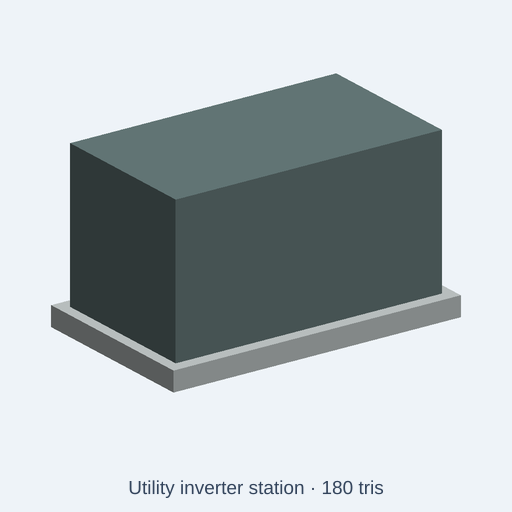
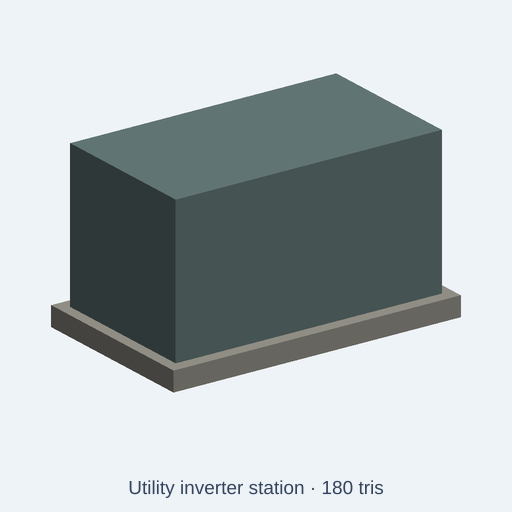
fix(catalog): render the inverter station cable plinth as concrete
The 1406 x 855 x 95 mm cable plinth under
solar-energy/utility-inverter-station used the stainlessSteel control,
so the station foundation rendered as a pale stainless slab. A cable
plinth for a containerised inverter station is a precast concrete
foundation.

- New concrete control (#99968d, "Concrete cable plinth"), the kit's
  existing concrete shade. Routed only to station-cable-plinth. Both
  presets set it (#8b8982, #77766f), as on pad-mount-transformer.
- The thin skid base (station-plinth) stays steel; body stays
  powder-coated steel.
- Geometry, part names and triangles (180 / 1800) are unchanged.
- New GLB colour test fails on the old source and passes on the fix.
- Catalog tests: 124/124 files, 194/194 tests pass. ESLint clean.
  Quality gate 2,398/2,402, unchanged. Index diff touches only this row.

Audit ledger (solar-energy, this round):
- utility-inverter-station: cable plinth steel, should be concrete.
  Fixed. Also noted (geometry, not changed): the doors and louvers are
  only on the +y face, which the preview camera does not see, and the
  end vents (x = +/-532.8, 120 mm wide) lie fully inside the 1302 mm
  body, so the preview reads as a plain box.
- pv-combiner-box: has a 449 mm floor plinth; combiner boxes are
  usually wall- or post-mounted. Noted (geometry). Door is on the
  unseen +y face.
- pad-mount-transformer: carries three tall porcelain top bushings;
  a pad-mount unit has its bushings inside a front cabinet. Noted
[…]

Changed region(s): [[0.0938, 0.5625, 0.9062, 0.7812]]

diff --git a/tests/integration/catalog/utilityInverterStationPlinthMaterial.test.ts b/tests/integration/catalog/utilityInverterStationPlinthMaterial.test.ts
@@ -1,0 +1,63 @@
+// SPDX-License-Identifier: MIT
+// Copyright (c) 2026 Andrii Shylenko and kernelCAD contributors
+
+import { resolve } from 'node:path';
+import { NodeIO } from '@gltf-transform/core';
+import { beforeAll, describe, expect, it } from 'vitest';
+import { buildCatalogAssetWithGlb } from '../../../src/agent/catalog/buildCatalog';
+import { initOcct } from '../../../src/kernel/backends/occt/occtBackend';
+
+const repoRoot = resolve(import.meta.dirname, '../../..');
+const source = 'catalog/kits/solar-energy/utility-inverter-station.kcad.ts';
+
+beforeAll(async () => {
+  await initOcct();
+}, 120_000);
+
+describe('solar-energy/utility-inverter-station materials', () => {
+  it('renders the cable plinth as concrete, not stainless steel', async () => {
+    const { asset, glb } = await buildCatalogAssetWithGlb(repoRoot, source);
+
+    expect(asset.stats.triangles).toBeLessThanOrEqual(asset.triangleBudget);
+    expect(asset.params.filter((param) => param.type === 'color').map((param) => param.name)).toEqual([
+      'concrete', 'stainlessSteel', 'powderCoat',
+    ]);
+    expect(Object.keys(asset.presets)).toEqual(['fieldService', 'highVisibility']);
+
+    const document = await new NodeIO().readBinary(glb);
+    const nodes = document.getRoot().listNodes();
+    const colorsFor = (name: string) => {
+      const node = nodes.find((candidate) => candidate.getName() === name);
+      return node?.getMesh()?.listPrimitives().flatMap((primitive) => {
+        const vertexColors = primitive.getAttribute('COLOR_0');
+        if (vertexColors !== null) {
+          return Array.from({ length: vertexColors.getCount() }, (_, index) => {
+            const color = vertexColors.getElement(index, []);
+            return color.slice(0, 3).map((channel) =>
+              channel <= 0.0031308 ? 12.92 * channel : 1.055 * channel ** (1 / 2.4) - 0.055,
+            );
+          });
+        }
+        const material = primitive.getMaterial();
+        return material === null ? [] : [material.getBaseColorFactor().slice(0, 3)];
+      }) ?? [];
+    };
+    const matches = (hex: string) => {
+      const expected = [1, 3, 5].map((shift) => parseInt(hex.slice(shift, shift + 2), 16) / 255);
+      return (color: number[]) => expected.every((channel, index) =>
+        Math.abs(channel - color[index]!) < 0.015,
+      );
+    };
+
+    const plinth = colorsFor('station-cable-plinth');
+    expect(plinth.length).toBeGreaterThan(0);
+    expect(plinth.every(matches('#99968d')), 'cable plinth should be concrete').toBe(true);
+    expect(plinth.some(matches('#c3caca')), 'cable plinth must not be stainless steel').toBe(false);
+    const skid = colorsFor('station-plinth');
+    expect(skid.length).toBeGreaterThan(0);
+    expect(skid.every(matches('#c3caca')), 'skid base should stay stainless steel').toBe(true);
+    const body = colorsFor('station-body');
+    expect(body.length).toBeGreaterThan(0);
+    expect(body.every(matches('#687c7c')), 'station body should stay powder-coated steel').toBe(true);
+  }, 120_000);
+});

diff --git a/catalog/kits/solar-energy/utility-inverter-station.kcad.ts b/catalog/kits/solar-energy/utility-inverter-station.kcad.ts
@@ -3,7 +3,7 @@ meta({
   name: 'utility-inverter-station',
   license: 'CC0-1.0',
   title: 'Utility inverter station',
-  description: 'Containerized inverter station with service doors, ventilation louvers and cable plinth. Material controls: stainless steel, powder-coated steel.',
+  description: 'Containerized inverter station with service doors, ventilation louvers and cable plinth. Material controls: concrete, stainless steel, powder-coated steel.',
   tags: ['solar energy', 'photovoltaic', 'renewable energy', 'low poly', 'scene prop', 'CC0'],
   kit: 'solar-energy',
   category: 'prop',
@@ -13,11 +13,14 @@ meta({
 });
 
 const scale = param('scale', 1, { label: 'Overall scale', min: 0.65, max: 1.35, step: 0.05 });
+// The cable plinth is the precast concrete foundation the station sits on;
+// the thin skid base above it stays steel.
+const concrete = param('concrete', '#99968d', { label: 'Concrete cable plinth' });
 const stainlessSteel = param('stainlessSteel', '#c3caca', { label: 'Stainless steel' });
 const powderCoat = param('powderCoat', '#687c7c', { label: 'Powder-coated steel' });
 presets({
-  fieldService: { stainlessSteel: '#abb5b7', powderCoat: '#7a807b' },
-  highVisibility: { stainlessSteel: '#e0e5e4', powderCoat: '#d1722b' },
+  fieldService: { concrete: '#8b8982', stainlessSteel: '#abb5b7', powderCoat: '#7a807b' },
+  highVisibility: { concrete: '#77766f', stainlessSteel: '#e0e5e4', powderCoat: '#d1722b' },
 });
 const p = assembly("utility-inverter-station");
 p.part("station-plinth", box(1330.4, 766, 36, true).translate(0, 0, 18).scale(scale).color(stainlessSteel));
@@ -34,6 +37,6 @@ p.part("station-vent-5", box(625.152, 10, 8, true).translate(0, 381, 505.12).sca
 p.part("station-vent-6", box(625.152, 10, 8, true).translate(0, 381, 606.4).scale(scale).color(stainlessSteel));
 p.part("station-end-vent-0", box(120, 540, 358.4, true).translate(-532.8, 0, 504).scale(scale).color(stainlessSteel));
 p.part("station-end-vent-1", box(120, 540, 358.4, true).translate(532.8, 0, 504).scale(scale).color(stainlessSteel));
-p.part("station-cable-plinth", box(1406, 855, 95, true).translate(0, 0, 48).scale(scale).color(stainlessSteel));
+p.part("station-cable-plinth", box(1406, 855, 95, true).translate(0, 0, 48).scale(scale).color(concrete));
 
 return p.model();
